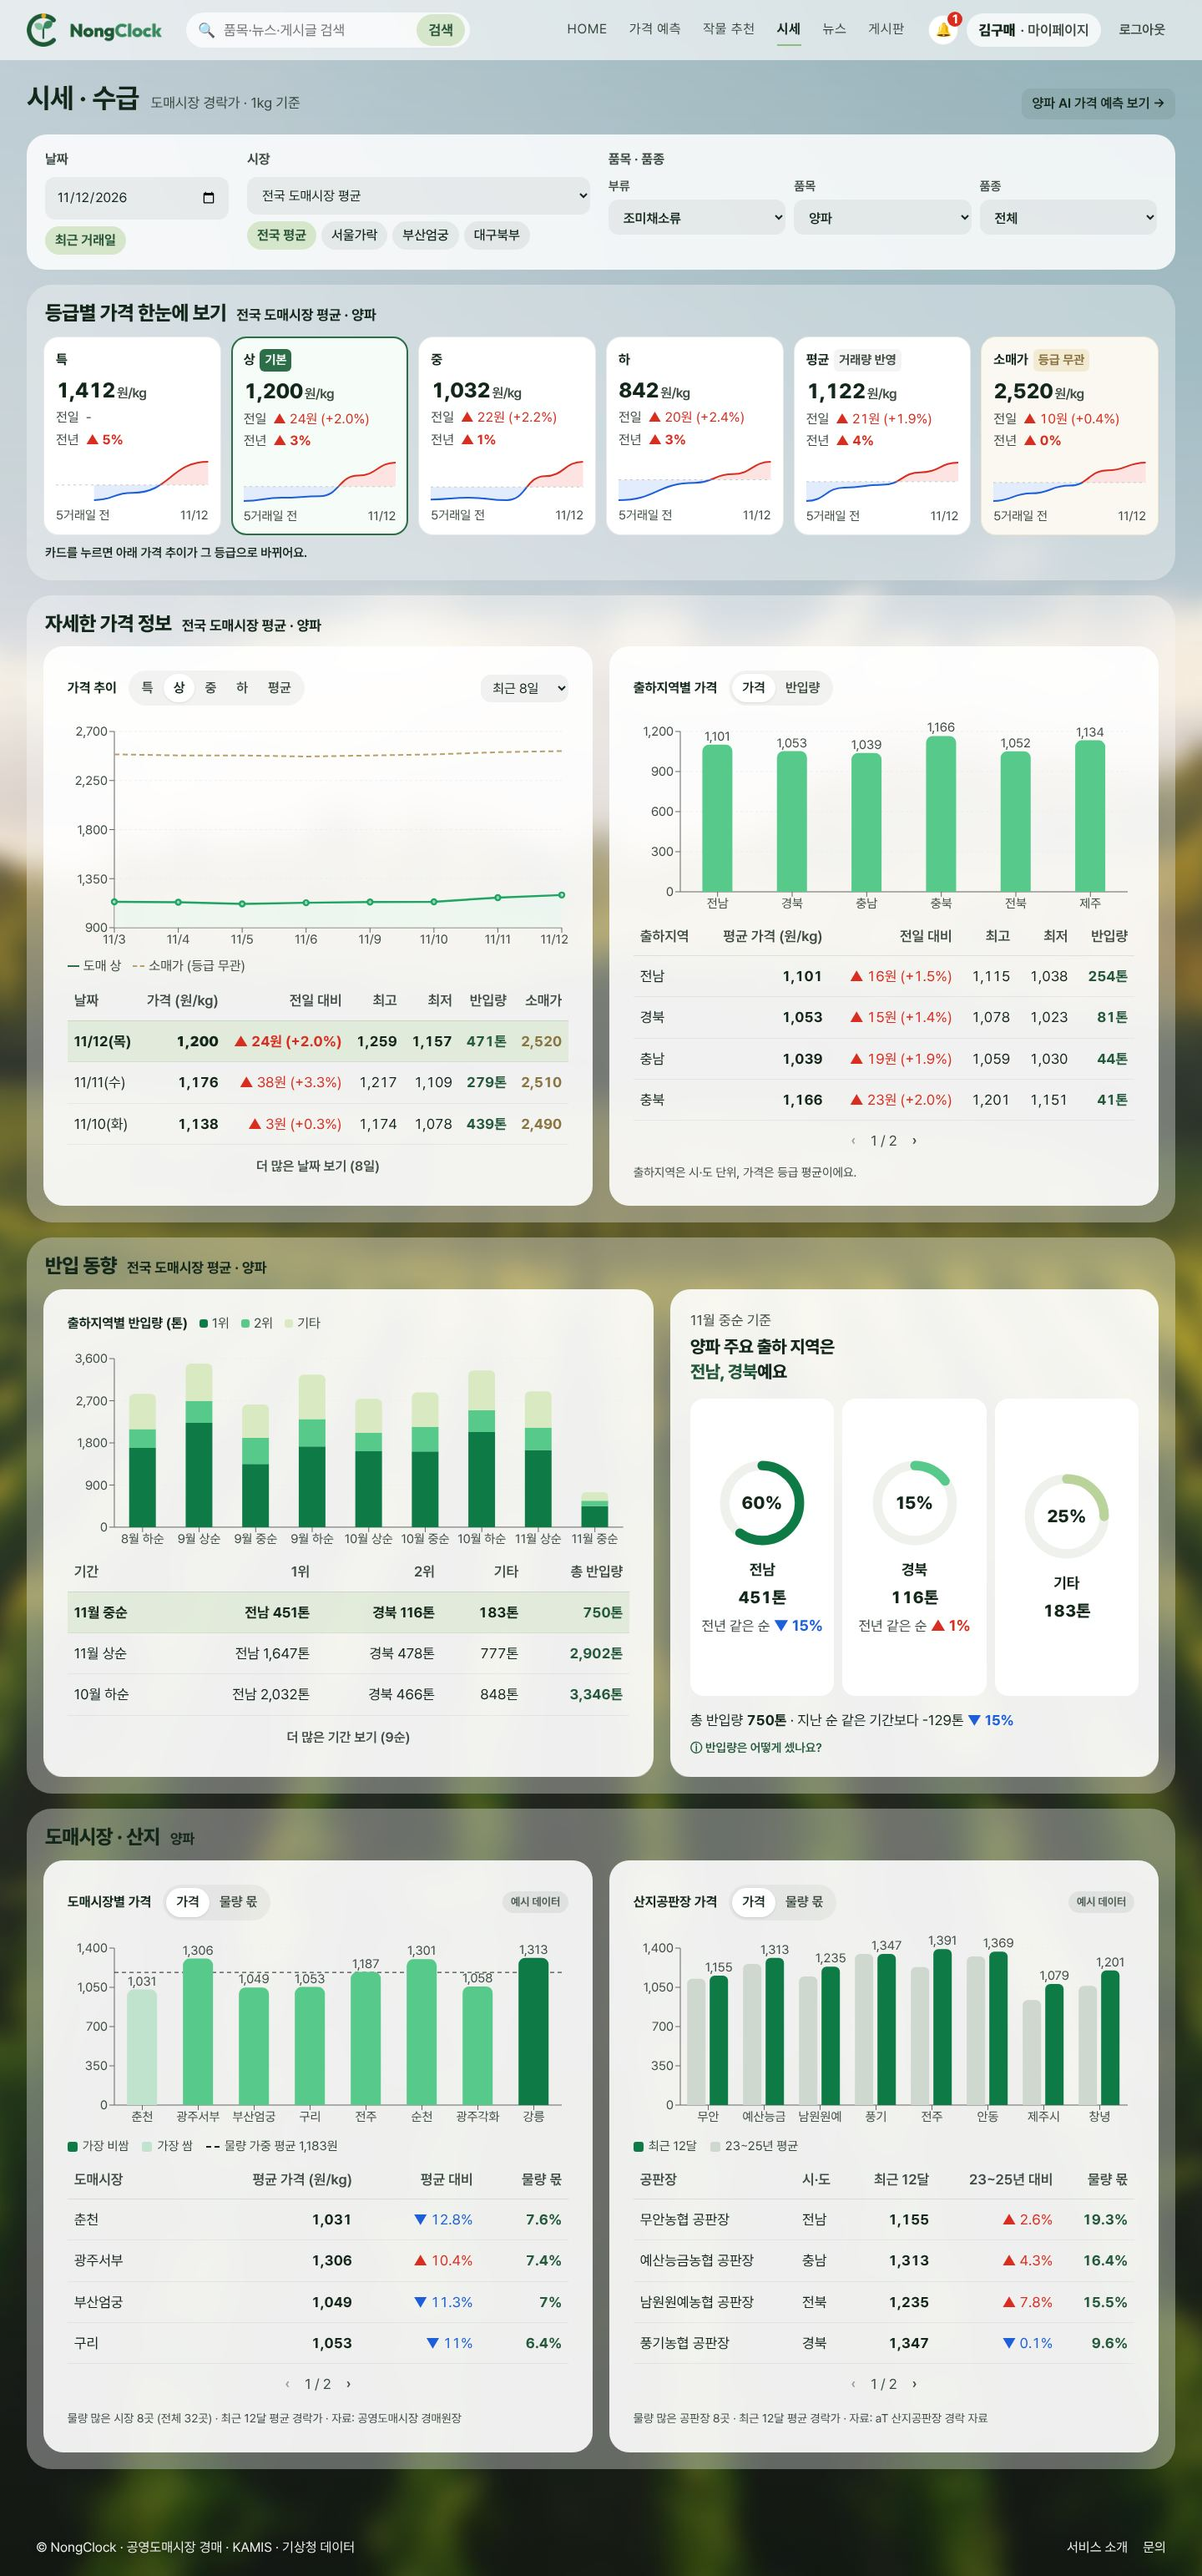
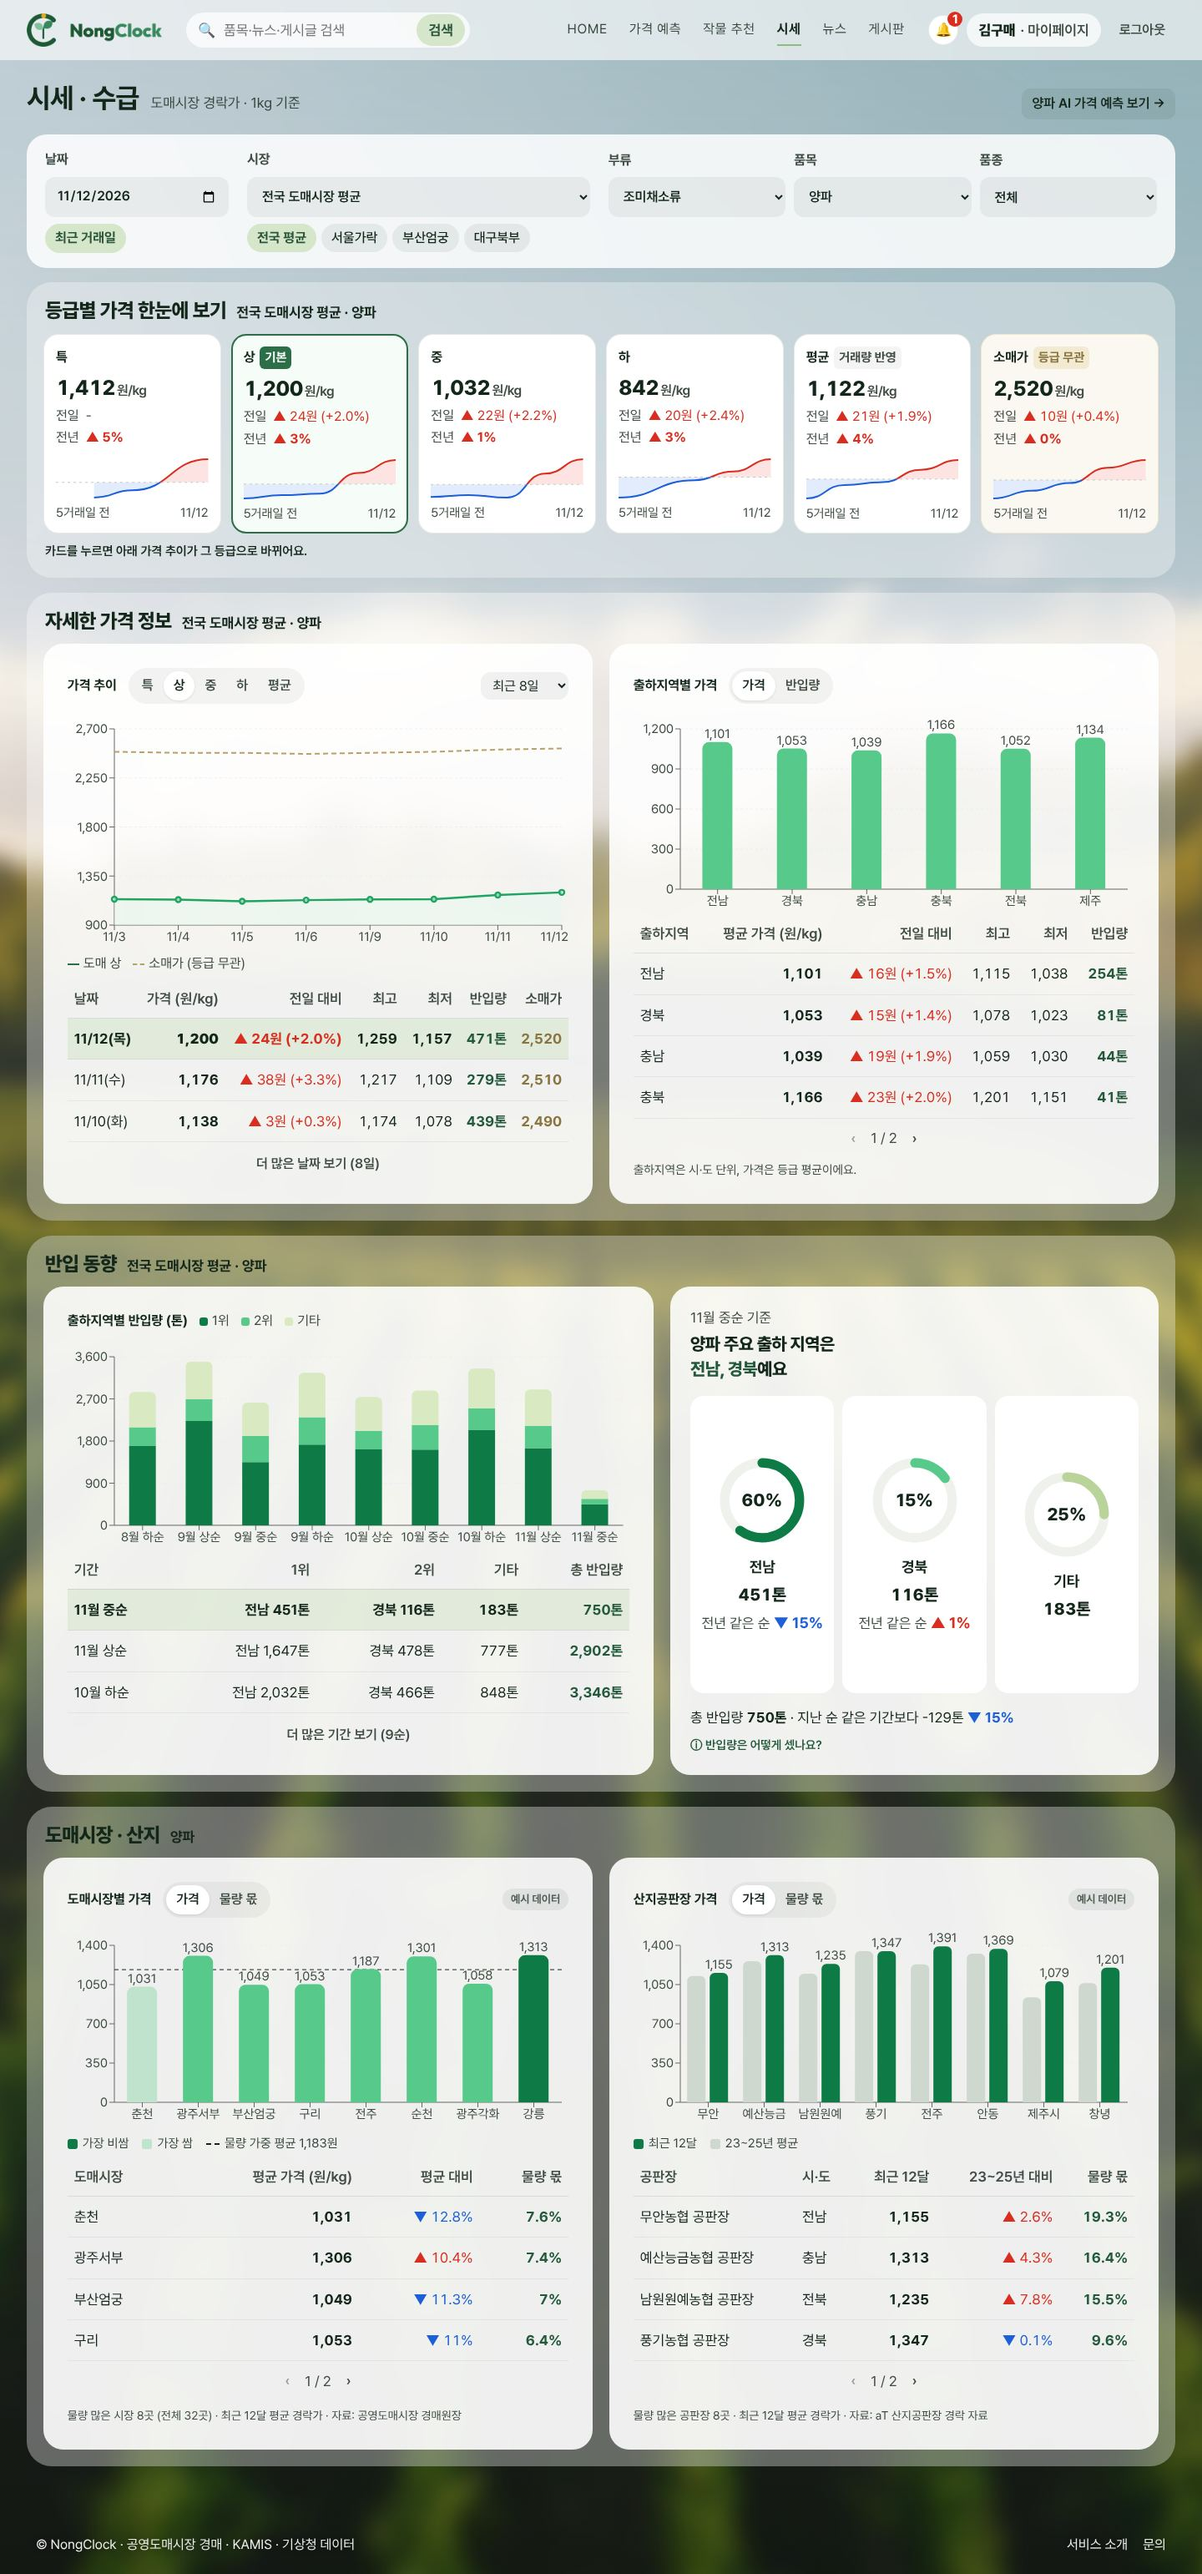
fix(frontend): 시세 조건 칸 정리 — "품목 · 품종" 묶음 이름 빼고 부류·품목·품종을 날짜·시장과 같은 높이로
- 부류 · 품목 · 품종 칸 이름을 날짜 · 시장 이름과 같은 줄 · 같은 글씨로
- 조건 다섯 칸 입력 높이 48px · 글씨 굵기 통일
- UI 설계서 변경 이력 · 캡처 04_market 교체

Claude-Session: https://claude.ai/code/session_01A5Bz2YFgwDEj3wEsMnATng

diff --git a/frontend/src/theme.css b/frontend/src/theme.css
@@ -334,6 +334,10 @@ select.input.mk-days { font-size: 16px; }
 /* 사진 위에 바로 놓이던 판 (11-11 고침): 시세 조건 칸 · 반입 동향 요약 · 뉴스 분류·품목 칸 */
 .mk-sum { background: var(--glass); backdrop-filter: blur(24px); -webkit-backdrop-filter: blur(24px); }
 .mk-filter { background: var(--glass); backdrop-filter: blur(24px); -webkit-backdrop-filter: blur(24px); border: 0; }
+/* 시세 조건 (11-12): "품목 · 품종" 묶음 이름을 빼고 부류 · 품목 · 품종 칸을 날짜 · 시장과 같은 줄 · 같은 높이로 */
+.mk-filter .cs-f { gap: 0; font-size: inherit; }
+.mk-filter .cs-f > span { display: block; font-size: 16px; font-weight: 700; color: var(--muted); margin-bottom: 8px; line-height: 25px; }
+.mk-filter .input, .mk-filter .mk-crop .cs-f .input { height: 48px; font-weight: 600; }
 .news-filters { background: var(--glass); backdrop-filter: blur(24px); -webkit-backdrop-filter: blur(24px); border-radius: var(--radius); padding: 8px clamp(18px, 2vw, 28px) 18px; }
 
 /* 안쪽 스크롤바 (11-11): 회색 기본 막대(위아래 화살표) 대신 카드에 녹아드는 얇은 둥근 막대 — 길이 칸 · 표 · 목록

diff --git a/frontend/src/pages/Market.jsx b/frontend/src/pages/Market.jsx
@@ -541,7 +541,6 @@ export default function Market() {
           </div>
         </div>
         <div className="f mk-crop">
-          <label>품목 · 품종</label>
           <CropSelect item={item} variety={variety} only={new Set(items.map((i) => i.item))} onChange={(v) => {
             const next = new URLSearchParams(params);
             next.set("item", v.item);

diff --git a/docs/05_ui_spec.md b/docs/05_ui_spec.md
@@ -165,7 +165,7 @@ NongClock(농클락, 옛 이름 팜비드) 사용자 사이트(`/`)와 관리자
 
 | 구역 | 내용 | API |
 |---|---|---|
-| 조건 | 날짜(최근 거래일) · 시장(전국 평균 + 32곳, 빠른 버튼) · **부류 → 품목 → 품종** (가격 예측과 같은 부품) | 2-15 |
+| 조건 | 한 줄: 날짜(최근 거래일) · 시장(전국 평균 + 32곳, 빠른 버튼) · 부류 · 품목 · 품종 (가격 예측과 같은 부품). 다섯 칸 이름·입력 높이를 맞춤("품목 · 품종" 묶음 이름은 11-12 뺌) | 2-15 |
 | 오른쪽 위 | "[품목 품종] AI 가격 예측 보기 →" (같은 품종으로 예측 화면) | |
 | 등급별 가격 한눈에 보기 | 특 · 상(기본) · 중 · 하 · 평균 · 소매가 카드: 가격 · 전일 · 전년 · 최근 5거래일 그래프. 카드를 누르면 아래 추이가 그 등급으로 | 2-15 grades |
 | 자세한 가격 정보 | 가격 추이(등급 · 기간) · 출하지역별 가격/반입량 | 2-15 history, origins |
@@ -280,3 +280,4 @@ API 2-8 ~ 2-11
 | 2026-11-11 | **사이트 이름 NongClock 으로 통일** — 헤더 로고를 팀 시안 20번(C 링 새싹) 이미지로, 브라우저 탭 아이콘 추가, 탭 제목·바닥글·서비스 소개·뉴스·검색 문구·관리자 로고의 "팜비드/FarmBid" → NongClock, 문의 메일 예시 contact@nongclock.kr. 캡처 모두 교체 | |
 | 2026-11-12 | 가격 예측: 아래에 **계절 패턴 · 월별 반입량** 카드(예시 데이터), 그래프 카드 아래 빈 공간 없앰(오른쪽 열 높이에 맞춰 그래프가 늘어남), "6개월보다 먼 예측이라 참고용" 안내 뺌. 작물 추천: 카드의 추천 이유 3줄 · "수확이 멀어 참고용" 안내 뺌. 캡처 `02_predict` · `02b_predict_lowacc` · `03_recommend` · `12_m_predict` · `12_m_recommend` 교체 | |
 | 2026-11-12 | 시세: 맨 아래 **도매시장 · 산지** 구역(도매시장별 가격 · 산지공판장 가격, 고른 시장과 상관없이 품목·품종만, 예시 데이터). 구역마다 옅은 유리판으로 묶고 제목 뒤 흰 띠 없앰, "순(10일) 단위" 문구 뺌. 가격 추이 · 반입 동향 요약 칸 높이를 옆 카드에 맞춤. 캡처 `04_market` 교체 | |
+| 2026-11-12 | 시세 조건: "품목 · 품종" 묶음 이름을 빼고 부류 · 품목 · 품종 칸을 날짜 · 시장과 같은 높이로. 캡처 `04_market` 교체 | |
